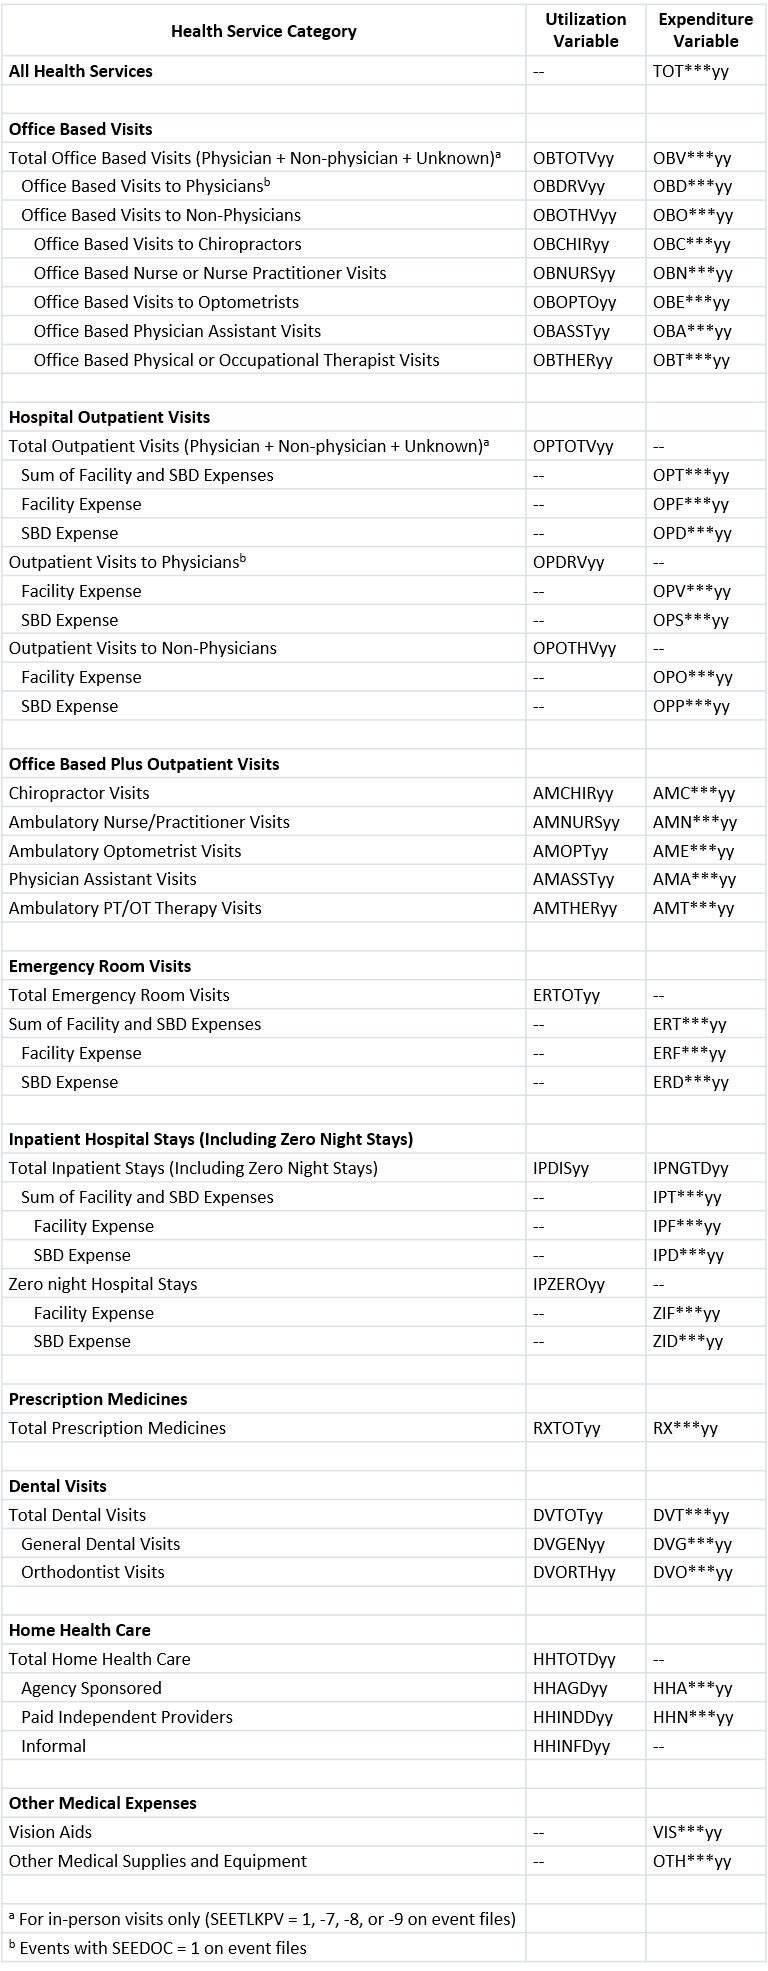
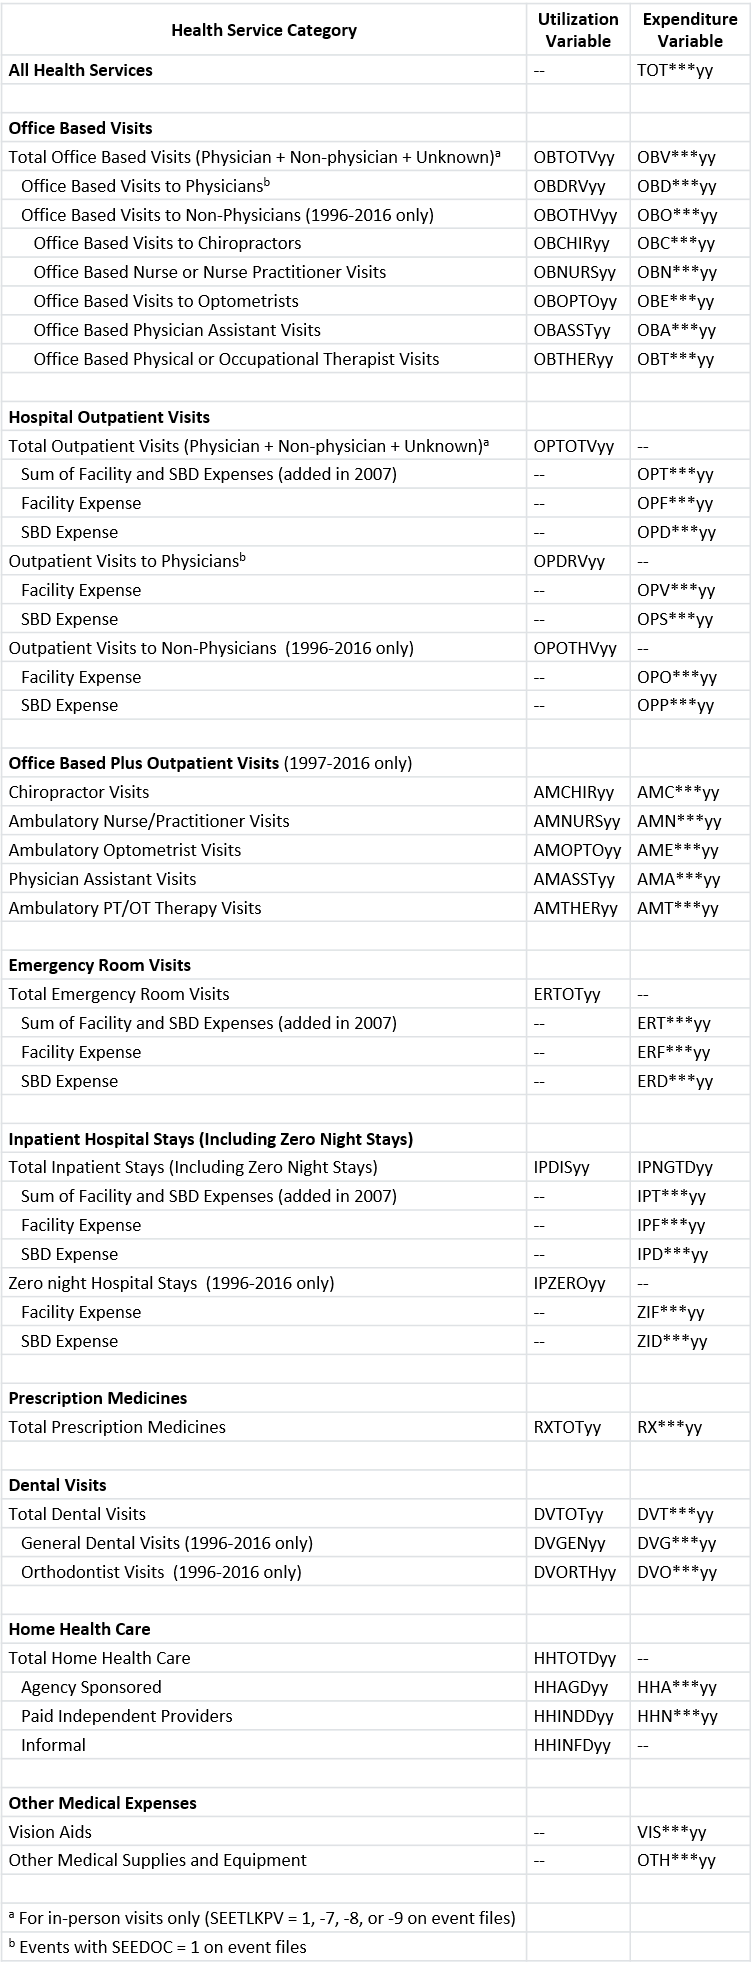
Editing READMEs and updating Variables reference guide for 2017

diff --git a/R/README.md b/R/README.md
@@ -12,7 +12,8 @@
 
 ## Loading R packages
 
-To load and analyze MEPS data in R, additional packages need to be installed. The `foreign` package allows R to read SAS transport files (.ssp), and the `survey` package should be used to analyze MEPS data. The `install.packages` function only needs to be run once (to download the package from the internet and store it on your computer). Typically, this is done with the command `install.packages("foreign")`. The `library` function needs to be run every time the R session is re-started.
+To load and analyze MEPS data in R, additional packages are needed. Packages are sets of R functions that are downloaded and installed into the R system. A package only needs to be installed once per R installation. Typically, this is done with the `install.packages` function to download the package from the internet and store it on your computer. The `library` function needs to be run every time the R session is re-started. Packages are tailor made to help perform certain statistical, graphical, or data tasks. Since R is used by many analysts, it is typical for only some packages to be loaded for each analysis. For analyzing MEPS data, the `foreign` package allows R to read SAS transport files (.ssp), and the `survey` package is used to analyze MEPS data.
+
 ``` r
 # Only need to run these once:
   install.packages("foreign")  
@@ -22,20 +23,19 @@ To load and analyze MEPS data in R, additional packages need to be installed. Th
   library(foreign)
   library(survey)
 ```
-> **Installing and Loading Packages**: Packages are sets of R functions that are downloaded and installed into the R system. A package only needs to be installed once per R installation. However, the `library` function needs to be run every time the R session is re-started. Packages are tailor made to help perform certain statistical, graphical, or data tasks. Since R is used by many analysts, it is typical for only some packages to be loaded for each analysis.
 
 ## Loading MEPS data
 Two methods for downloading MEPS transport files are available. The first requires the user to navigate to the website containing the MEPS dataset and manually download and unzip the SAS transport file. The second method uses the R function `download.file` to automatically download the file by pointing to its location on the MEPS website.
 
-> <b>Warning!</b> R does not preserve any SAS formats, labels, or variable types. For instance, a character variable on the SAS dataset could be read as a factor variable in the R dataset. Users are encouraged to be diligent in confirming that variables are stored as the appropriate type before proceeding with analyses.
+> <b>Warning!</b> R may not preserve SAS formats, labels, or variable types. For instance, a character variable on the SAS dataset could be read as a factor variable in the R dataset. Users are encouraged to be diligent in confirming that variables are stored as the appropriate type before proceeding with analyses.
 
 ### Manually
 
-If the SAS transport file has been saved to a local directory, R can read the file using the `read.xport` function from the `foreign` package. In the following example, the transport file <b>h163.ssp</b> has been downloaded from the MEPS website, unzipped, and saved in the local directory <b>C:\MEPS</b> (click [here](../README.md#accessing-meps-hc-data) for details).
+Once the SAS transport file has been saved to a local directory, R can read the file using the `read.xport` function from the `foreign` package. In the following example, the transport file <b>h163.ssp</b> has been downloaded from the MEPS website, unzipped, and saved in the local directory <b>C:\MEPS</b> (click [here](../README.md#accessing-meps-hc-data) for details).
 ``` r
 h163 = read.xport("C:/MEPS/h163.ssp")
 ```
-> <b>Note:</b> Directory names need to be separated by a slash ("/") or a double backslash ("\\\\") in R.
+> <b>Note:</b> Directory names need to be separated by a forward slash ("/") or a double backslash ("\\\\") in R.
 
 ### Programmatically
 
@@ -51,18 +51,18 @@ The `unlink` function is used to delete the temporary file, to free up space in 
 
 ### Saving R data file (.Rdata)
 
-Once the MEPS data has been loaded into R using either of the two previous methods, it can be saved as a permanent R dataset (.Rdata) for faster loading. In the following code, the h163 dataset is saved in the 'R\data' folder, (first create the 'R\data' folders if needed):
+Once the MEPS data has been loaded into R using either of the two previous methods, it can be saved as a permanent R dataset (.Rdata) for faster loading. In the following code, the h163 dataset is saved in the 'R/data' folder, (first create the 'R/data' folder if needed):
 ``` r
-save(h163, file="C:/MEPS/R/data/h163.Rdata")
+save(h163, file = "C:/MEPS/R/data/h163.Rdata")
 ```
 The h163 dataset can then be loaded into subsequent R sessions using the code:
 ``` r
-load(file="C:/MEPS/R/data/h163.Rdata")
+load(file = "C:/MEPS/R/data/h163.Rdata")
 ```
 
 
 ## Survey package in R
-To analyze MEPS data using R, the [`survey` package](https://cran.r-project.org/web/packages/survey/survey.pdf) should be used to ensure unbiased estimates. The survey package contains functions for analyzing survey data by defining a **survey design object** with information about the sampling procedure, then running analyses on that object. Some of the functions in the survey package that are most useful for analyzing data from MEPS include:
+To analyze MEPS data using R, the [`survey` package](https://cran.r-project.org/web/packages/survey/survey.pdf) should be used to ensure unbiased estimates. The survey package contains functions for analyzing survey data by defining a **survey design object** with information about the sampling procedure, then running analyses on that object. Some of the functions in the survey package that are most useful for analyzing MEPS data include:
 
 *   `svydesign`: define the survey object
 *   `svytotal`: population totals
@@ -100,7 +100,8 @@ The following codes from previous MEPS workshops are provided in the [workshop_e
 [exercise_3.R](workshop_exercises/exercise_3.R): Pooling MEPS FYC files, 2015 and 2016
 <br>
 [exercise_4.R](workshop_exercises/exercise_4.R):  Pooling longitudinal files, panels 17-19
-
+<br>
+[ggplot_example.R](workshop_exercises/ggplot_example.R): Code to re-create the data and plot for Figure 1 in [Statistical brief \#491](https://meps.ahrq.gov/data_files/publications/st491/stat491.shtml).
 
 ### Summary tables examples
 
@@ -130,7 +131,3 @@ The following codes provided in the [summary_tables_examples](summary_tables_exa
 [use2_expenditures.R](summary_tables_examples/use2_expenditures.R): Expenditures for office-based and outpatient visits, by source of payment, 2016
 <br>
 [use3_events.R](summary_tables_examples/use3_events.R): Number of events and mean expenditure per event, for office-based and outpatient events, by source of payment, 2016
-
-<br>
-
-[ggplot_example.R](ggplot_example.R): Code to re-create the data and plot for Figure 1 in [Statistical brief \#491](https://meps.ahrq.gov/data_files/publications/st491/stat491.shtml).

diff --git a/README.md b/README.md
@@ -1,6 +1,6 @@
 # Medical Expenditure Panel Survey (MEPS)
 
-This repository contains instructions and example code for loading and analyzing data from the Agency for Healthcare Research and Quality's [Medical Expenditure Panel Survey](https://meps.ahrq.gov/mepsweb/) (MEPS) <b>Household Component</b> (HC), as well as presentation slides from the most recent MEPS Workshop. [Quick reference guides](Quick_Reference_Guides) are also provided for convenience.
+This repository contains instructions and example code for loading and analyzing data from the Agency for Healthcare Research and Quality's [Medical Expenditure Panel Survey](https://meps.ahrq.gov/mepsweb/) (MEPS) <b>Household Component</b> (HC). [Quick reference guides](Quick_Reference_Guides) are also provided for convenience.
 
 [MEPS Workshops](#meps-workshops) <br>
 [Survey Background](#survey-background) <br>
@@ -13,6 +13,8 @@ This repository contains instructions and example code for loading and analyzing
  * [R](R) <br>
  * [SAS](SAS) <br>
  * [Stata](Stata) <br>
+
+ > **Note to User**: All code provided in this repository is intended as an example for loading and analyzing MEPS data. AHRQ cannot certify the quality of your analysis. It is the user's responsibility to verify the accuracy of the results.
 
 ## MEPS Workshops
 
@@ -30,7 +32,7 @@ The MEPS-HC is designed to produce national and regional estimates of the health
 
 ## Accessing MEPS-HC data
 
-Data from the Household Component of MEPS are [available for download](https://meps.ahrq.gov/mepsweb/data_stats/download_data_files.jsp) as public use files. Each dataset contains .zip and .exe files in ASCII and SAS transport format.
+Data from the Household Component of MEPS are [available for download as public use files](https://meps.ahrq.gov/mepsweb/data_stats/download_data_files.jsp). Each dataset contains .zip and .exe files in ASCII and SAS transport format.
 
 ![MEPS data files website screenshot](_images/data_documentation_arrow.png)
 
@@ -42,7 +44,7 @@ The steps for loading the .dat or .ssp files depends on the programming language
 
 
 ## Analyzing MEPS-HC data
-The complex survey design of MEPS requires special methods for analyzing MEPS data. These tools are available in many common programming languages including R, SAS, and Stata. Failure to account for the survey design can result in biased estimates. Details and examples of using the appropriate survey methods are provided for [R](R), [SAS](SAS), and [Stata](Stata). Additional examples comparing these three languages can be found in the quick reference guide [meps_programming_statements.md](Quick_Reference_Guides/meps_programming_statements.md).
+The complex survey design of MEPS requires special methods for analyzing MEPS data. These tools are available in many common programming languages. Failure to account for the survey design can result in biased estimates. Details and examples of using the appropriate survey methods are provided in the [R](R), [SAS](SAS), and [Stata](Stata) folders. Additional examples comparing these three languages can be found in the quick reference guide [meps_programming_statements.md](Quick_Reference_Guides/meps_programming_statements.md).
 
 #### Sample size and precision
 
@@ -59,12 +61,9 @@ When analyzing multiple years of MEPS data, it is important to note that MEPS va
 Users should refer to the documentation that is provided with each data set for more information.
 
 
-
-> **Note to User**: All code provided in this repository is intended as an example for loading and analyzing MEPS data. AHRQ cannot certify the quality of your analysis. It is the user's responsibility to verify the accuracy of the results.
-
-
 ## Additional Survey Components
-In addition to the Household Component (MEPS-HC), MEPS is comprised of two additional components: The <b>MEPS Medical Provider Component (MEPS-MPC)</b> and the <b>MEPS Insurance Component (MEPS-IC)</b>. The MEPS-MPC survey collects information from providers of medical care that supplements the information collected from persons in the MEPS-HC sample in order to provide the most accurate cost data possible. The MEPS-IC survey collects information from employers in the private sector and state and local governments on the health insurance coverage offered to their employees. It also includes information on the number and types of private health insurance plans offered, benefits associated with these plans, annual premiums and contributions to premiums by employers and employees, copayments and coinsurance, by various employer characteristics (for example, State, industry and firm size).
+
+In addition to the Household Component (MEPS-HC), MEPS is comprised of two additional components: The <b>MEPS Medical Provider Component (MEPS-MPC)</b> and the <b>MEPS Insurance Component (MEPS-IC)</b>. The MEPS-MPC survey collects information from providers of medical care that supplements the information collected from persons in the MEPS-HC sample in order to provide the most accurate cost data possible. The MEPS-IC survey collects information from employers in the private sector and state and local governments on the health insurance coverage offered to their employees. It also includes information on the number and types of private health insurance plans offered, benefits associated with these plans, annual premiums and contributions to premiums by employers and employees, copayments and coinsurance, by various employer characteristics (for example, State, industry and firm size). [Summary data tables, chartbooks, and publications](https://meps.ahrq.gov/mepsweb/survey_comp/Insurance.jsp) are available on the MEPS website.
 
 Special permissions are required to access datasets from the MPC and IC components. Access to the MEPS-MPC data can be requested from the [AHRQ data center](https://meps.ahrq.gov/mepsweb/data_stats/onsite_datacenter.jsp). For access to the MEPS-IC data, visit the [Census Bureau's data center website](http://www.census.gov/ces/rdcresearch/).
 

diff --git a/Quick_Reference_Guides/README.md b/Quick_Reference_Guides/README.md
@@ -15,8 +15,10 @@ The following reference guides are provided for convenience:
 
 ## Condition Codes
 
-[meps_condition_codes.csv](meps_condition_codes.csv) provides a cross-reference between [collapsed condition categories](https://meps.ahrq.gov/survey_comp/MEPS_condition_data.pdf) commonly used in MEPS analyses and [Clinical Classification Software (CCS) Codes](https://www.hcup-us.ahrq.gov/toolssoftware/ccs/ccs.jsp#download). Information on how CCS codes relate to [ICD-9](https://www.hcup-us.ahrq.gov/toolssoftware/ccs/ccs.jsp) and [ICD-10](https://www.hcup-us.ahrq.gov/toolssoftware/ccs10/ccs10.jsp) codes is available on the HCUP website.
+[meps_condition_codes.csv](meps_condition_codes.csv) provides a cross-reference between collapsed condition categories commonly used in MEPS analyses and Clinical Classification Software (CCS) Codes. Information on how CCS codes relate to [ICD-9](https://www.hcup-us.ahrq.gov/toolssoftware/ccs/ccs.jsp) and [ICD-10](https://www.hcup-us.ahrq.gov/toolssoftware/ccs10/ccs10.jsp) codes is available on the HCUP website.
 [![preview of condition codes](../_images/meps_condition_codes.png)](meps_condition_codes.csv)
+
+For more information on Medical Condition data in MEPS and collapsed condition categories, see ["Understanding and Analyzing MEPS Household Component Medical Condition Data"](https://meps.ahrq.gov/survey_comp/MEPS_condition_data.pdf) by Steven Machlin, Anita Soni, and Zhengyi Fang.
 
 ## Entity Relationship Diagram
 [meps_erd.pdf](meps_erd.pdf) is a printable entity relationship diagram of the most commonly used MEPS public use files (PUFs). Short descriptions of the datasets and example programming codes in SAS, R, and Stata are available on page 2.
@@ -31,5 +33,6 @@ The following reference guides are provided for convenience:
 [![preview of programming statements](../_images/meps_programming_statements.png)](meps_programming_statements.md)
 
 ## Variable Names
-[meps_variables.md](meps_variables.md) is a guide for identifying variable names of utilization and  expediture variables by source of payment in the [MEPS Full-Year-Consolidated (FYC) files](https://meps.ahrq.gov/mepsweb/data_stats/download_data_files_results.jsp?cboDataYear=All&cboDataTypeY=1%2CHousehold+Full+Year+File&buttonYearandDataType=Search&cboPufNumber=All&SearchTitle=Consolidated+Data). For example, 'TOTEXP14' is the variable name for total expenditures per person in 2014, while 'OBVSLF14' is the variable name for out-of-pocket payments for office-based doctor's visits per person in 2014.
+[meps_variables.md](meps_variables.md) is a guide for identifying variable names of utilization and  expenditure variables by source of payment in the [MEPS Full-Year-Consolidated (FYC) files](https://meps.ahrq.gov/mepsweb/data_stats/download_data_files_results.jsp?cboDataYear=All&cboDataTypeY=1%2CHousehold+Full+Year+File&buttonYearandDataType=Search&cboPufNumber=All&SearchTitle=Consolidated+Data).
+
 [![preview of variable names](../_images/meps_variables.png)](meps_variables.md)

diff --git a/SAS/README.md b/SAS/README.md
@@ -13,7 +13,7 @@ Two methods for downloading MEPS SAS transport files are available. The first re
 
 ### Manually
 
-In SAS 9.4, SAS transport (.ssp) files can be read in using PROC XCOPY. In the following example, the SAS transport file <b>h171.ssp</b> has been downloaded from the MEPS website, unzipped, and saved in the local directory '<b>C:\MEPS</b>' (click [here](../README.md#accessing-meps-hc-data) for details).
+In SAS 9.4 or later, SAS transport (.ssp) files can be read in using PROC XCOPY. In the following example, the SAS transport file <b>h171.ssp</b> has been downloaded from the MEPS website, unzipped, and saved in the local directory '<b>C:\MEPS</b>' (click [here](../README.md#accessing-meps-hc-data) for details).
 ``` sas
 FILENAME in_h171 'C:\MEPS\h171.ssp';
 
@@ -126,7 +126,7 @@ The following codes provided in the [summary_tables_examples](summary_tables_exa
 
 ### Older Exercises (1996 to 2006)
 
-These exercises include older SAS programs presented during previous MEPS workshops. Each folder includes a SAS program (.sas) and SAS output (.pdf)
+Codes provided in the [older_exercises_1996_to_2006](older_exercises_1996_to_2006) folder include older SAS programs for analyzing earlier years of MEPS data. Each folder includes a SAS program (.sas) and SAS output (.pdf)
 
 #### Estimation examples
 

diff --git a/Quick_Reference_Guides/meps_variables.md b/Quick_Reference_Guides/meps_variables.md
@@ -9,7 +9,7 @@ To complete the variable name in the following table, replace 'yy' with the two-
 
 ### Source of Payment Keys
 
-To complete variable name in the '[Utilization and Expenditure Variables](#utilization-and-expenditure-variables)' table, replace **\* with a particular source of payment category as identified in the following tables:
+To complete variable name in the '[Utilization and Expenditure Variables](#utilization-and-expenditure-variables)' table above, replace **\* with a particular source of payment category as identified in the following tables:
 
 ![sop category cheat sheet](../_images/qrg_sop_categories.png)
 
